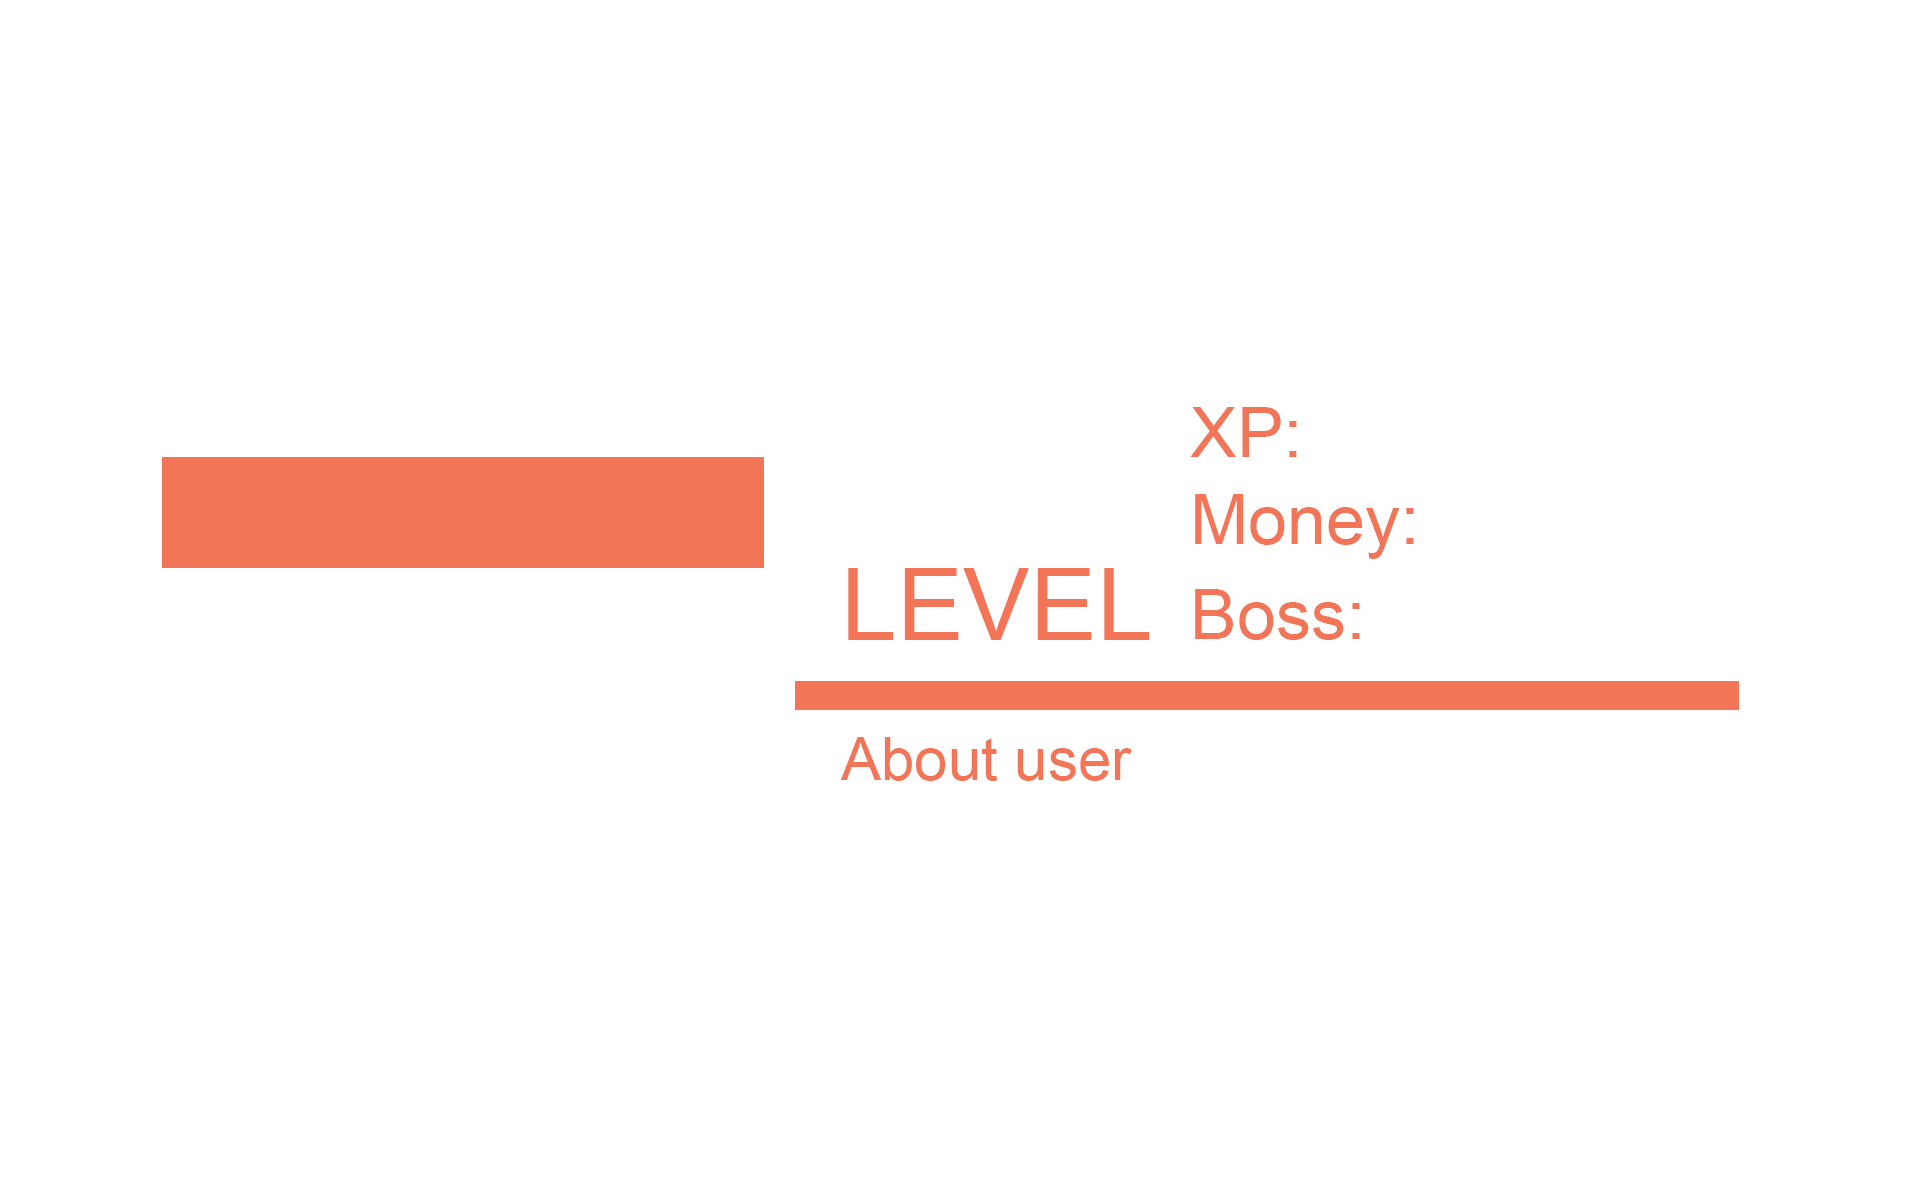
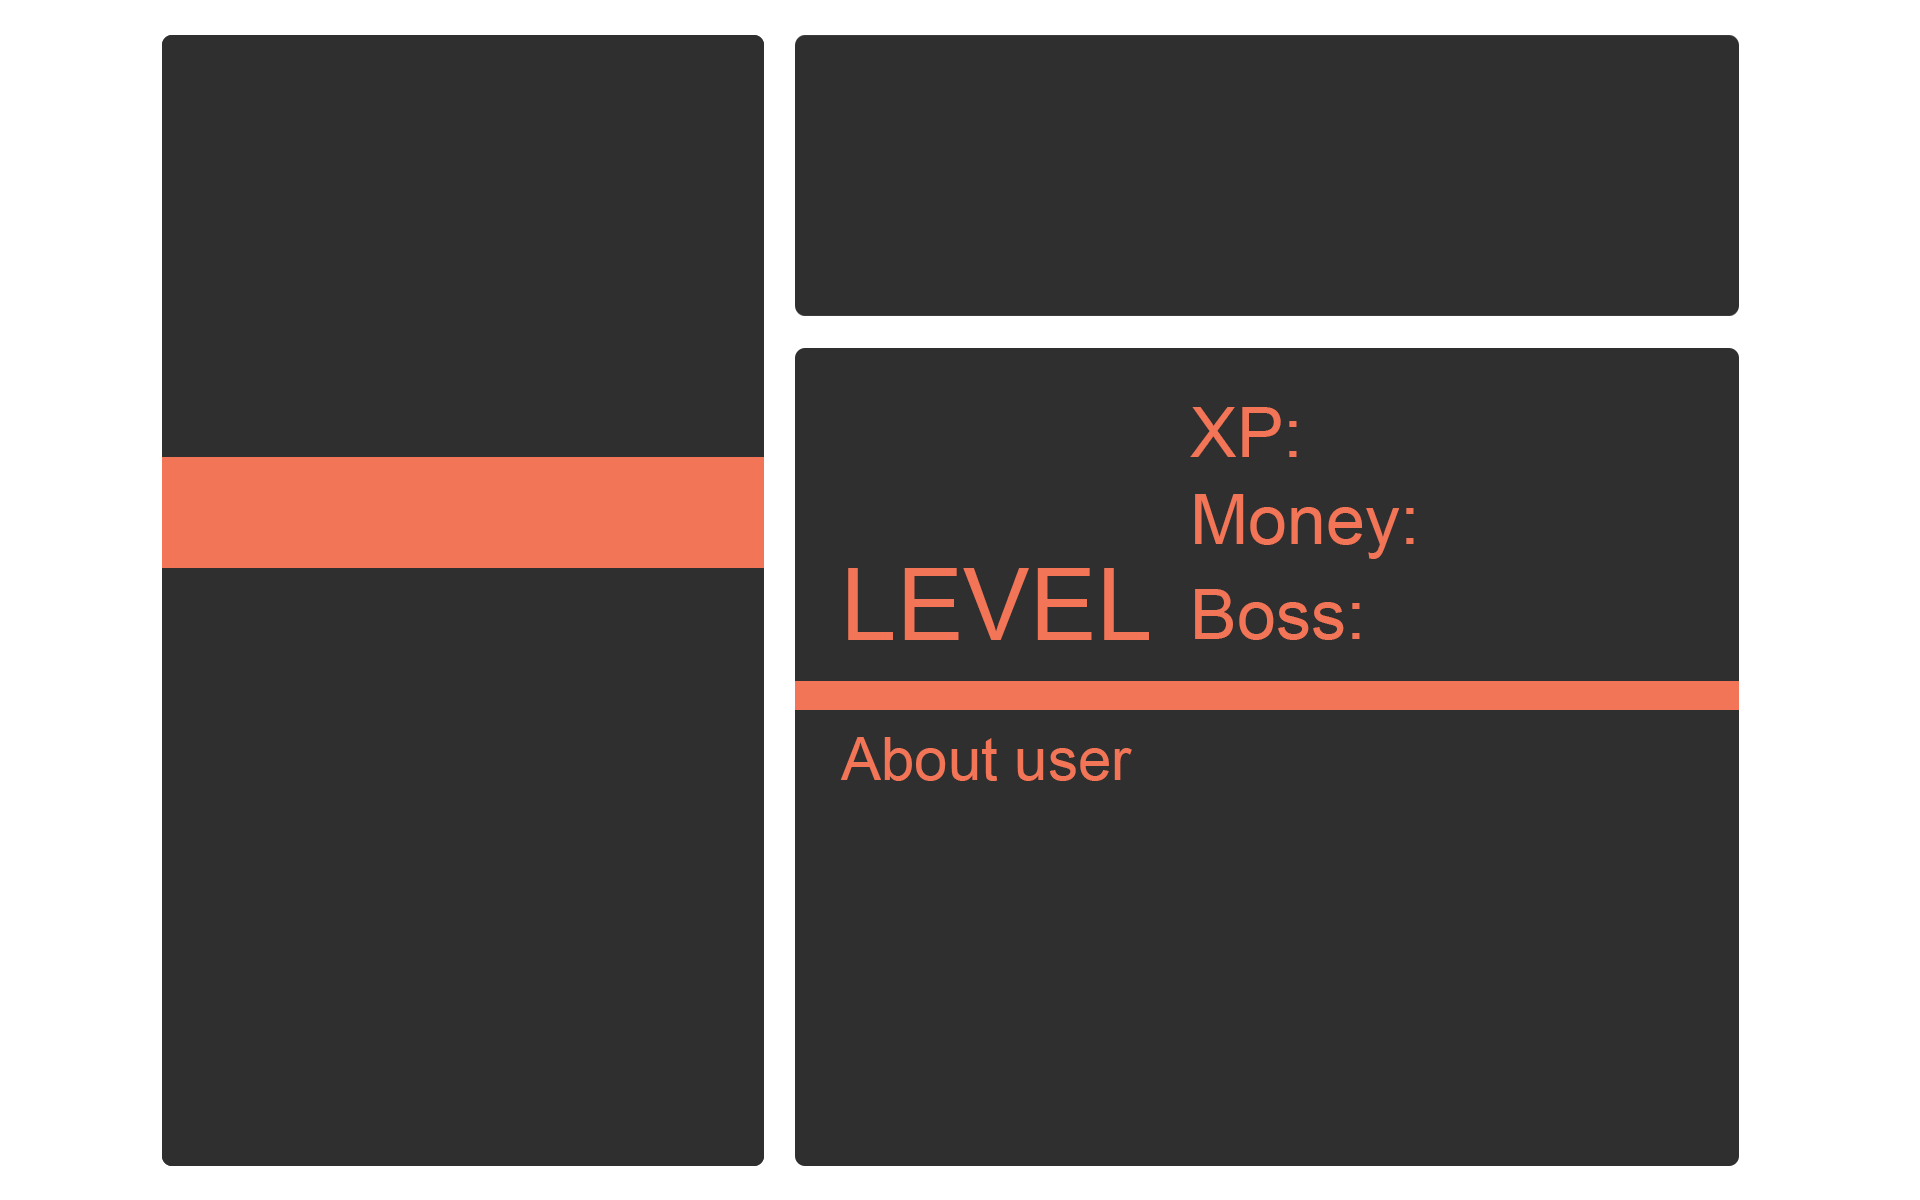
update

diff --git a/commands/info.js b/commands/info.js
@@ -22,7 +22,7 @@ module.exports.run = async (client, message, args ) =>
     } else {
       let memberInfo = message.author;
       if(message.mentions.users.first()) memberInfo = message.mentions.users.first();
-      con.query(`SELECT users.name, level, xp, money, description, hype, background, locks FROM users LEFT JOIN setting using(userid) WHERE userid = ?`, [memberInfo.id], async (err, rows) => {
+      con.query(`SELECT users.name, level, xp, money, description, background, locks FROM users LEFT JOIN setting using(userid) WHERE userid = ?`, [memberInfo.id], async (err, rows) => {
         console.log(err);
         if(rows.length < 1) {
           return message.reply("Вы были зарегистрированы в базе данных, напишите команду ещё раз.")  
@@ -49,52 +49,56 @@ module.exports.run = async (client, message, args ) =>
           }
         }
         
-       /* ctx.save();
         let background = rows[0].background;
         if(background > 0)
         {
           const bg1_profile = await Canvas.loadImage(`./profile/bg/${background}.png`);
           ctx.drawImage(bg1_profile, 0, 0, canvas.width, canvas.height);
+          ctx.globalAlpha = 0.9;
         }
-        ctx.restore(); */
 
+
+        // 1 прямоугольник
         ctx.save();
-        const bg_profile = await Canvas.loadImage('./wallpaper.png');
-        ctx.drawImage(bg_profile, 0, 0, canvas.width, canvas.height);
+
+        ctx.beginPath();
+        ctx.rect(150, 20, 600, 1160);
+        ctx.closePath();
+        ctx.fillStyle = '#fff';
+        ctx.fill();
+        ctx.clip();
 
         ctx.beginPath();
         ctx.rect(150, 1100, progress*6, 90);
         ctx.closePath();
-        ctx.globalCompositeOperation = "source-atop";
         ctx.fillStyle = '#f17556';
         ctx.fill();
+
+        ctx.beginPath();
+        ctx.rect(150, 453, 700, 110);
+        ctx.closePath();
+        ctx.fillStyle = '#f17556';
+        ctx.fill();
+
         ctx.restore();
 
-        //hype
-        let hype = rows[0].hype;
-        let balance = await Canvas.loadImage('./profile/balance.png');
-        let bravery = await Canvas.loadImage('./profile/bravery.png');
-        let briliance = await Canvas.loadImage('./profile/briliance.png');
-        switch (hype) {
-            case "1":
-                ctx.drawImage(bravery, 860, 80, 170, 170);
-                ctx.font = '150px sans-serif';
-                ctx.fillStyle = '#9C84EF';
-                ctx.fillText("Bravery", 1100, 200);
-              break;
-            case "2":
-                ctx.drawImage(briliance, 860, 80, 170, 170);
-                ctx.font = '150px sans-serif';
-                ctx.fillStyle = '#F47B67';
-                ctx.fillText("Briliance", 1100, 210);
-              break;
-            case "3":
-                ctx.drawImage(balance, 860, 80, 170, 170);
-                ctx.font = '150px sans-serif';
-                ctx.fillStyle = '#45DDC0';
-                ctx.fillText("Balance", 1100, 210);
-              break;
-        }
+        ctx.beginPath();
+        ctx.rect(780, 20, 930, 300);
+        ctx.closePath();
+        ctx.fillStyle = '#fff';
+        ctx.fill();
+
+        ctx.beginPath();
+        ctx.rect(780, 350, 930, 370);
+        ctx.closePath();
+        ctx.fillStyle = '#fff';
+        ctx.fill();
+
+        ctx.beginPath();
+        ctx.rect(780, 750, 930, 430);
+        ctx.closePath();
+        ctx.fillStyle = '#fff';
+        ctx.fill();
         
         //значки
         /*
@@ -127,7 +131,7 @@ module.exports.run = async (client, message, args ) =>
 
         //ник
         ctx.font = '70px Arial';
-        ctx.fillStyle = '#ffffff';
+        ctx.fillStyle = '#fff';
         if(nick.length > 13) {
           let nick_l = nick.substr(0, 13) + "...";
           ctx.fillText(`${nick_l}`, canvas.width / 10.0, canvas.height / 2.25);
@@ -137,24 +141,28 @@ module.exports.run = async (client, message, args ) =>
         }
 
         //level
-        ctx.font = '220px sans-serif';
+        ctx.font = '200px sans-serif';
         ctx.fillStyle = '#f17556';
         ctx.fillText(`${lvl}`, canvas.width / 2.1, canvas.height / 2.2);
+        ctx.font = '120px sans-serif';
+        ctx.fillStyle = '#f17556';
+        ctx.fillText("LEVEL", 800, 680);
+
 
         //xp
         ctx.font = '70px sans-serif';
         ctx.fillStyle = '#f17556';
-        ctx.fillText(`${xp}`, canvas.width / 1.475, canvas.height / 2.63);
+        ctx.fillText(`XP:${xp} / ${1000+100*lvl}`, 1200, 455);
 
         //money
         ctx.font = '70px sans-serif';
         ctx.fillStyle = '#f17556';
-        ctx.fillText(`${money}`, canvas.width / 1.35, canvas.height / 2.2);
+        ctx.fillText(`Money: ${money}`, 1200, canvas.height / 2.2);
 
         //BOSS
         ctx.font = '70px sans-serif';
         ctx.fillStyle = '#f17556';
-        ctx.fillText('0', canvas.width / 1.4, canvas.height / 1.87);
+        ctx.fillText("Power: 0", 1200, canvas.height / 1.87);
         
         function wrapText(ctx, text, marginLeft, marginTop, maxWidth, lineHeight)
         {
@@ -194,7 +202,7 @@ module.exports.run = async (client, message, args ) =>
       
         const { body: buffer } = await snekfetch.get(memberInfo.displayAvatarURL);
         const avatar = await Canvas.loadImage(buffer);
-        ctx.drawImage(avatar, 320, 70, 300, 300);
+        ctx.drawImage(avatar, 320, 90, 280, 280);
 
         ctx.restore();
         ctx.beginPath();

diff --git a/index.js b/index.js
@@ -6,12 +6,6 @@ client.discord = Discord;
 config = require('./config.json');
 uniguild = new Discord.WebhookClient(config.web_id, config.web_token);
 
-const http = require('http');
-const url = require('url');
-const fetch = require('node-fetch');
-const FormData = require('form-data');
-const port = 5500;
-
 //mysql
 mysql = require('mysql');
 
@@ -70,7 +64,6 @@ fs.readdir("./events/", (err, files) => {
 client.on('message', async message => {
   if(message.author.bot) return;
   if(message.channel.type === "dm") return message.reply("Извините, но я не отвечаю на личные сообщения `^-^`");
-
   // sql reg
   con.query(`SELECT * FROM users WHERE userid = '${message.author.id}'`, function (err, rows) {
       if(err) throw err;
